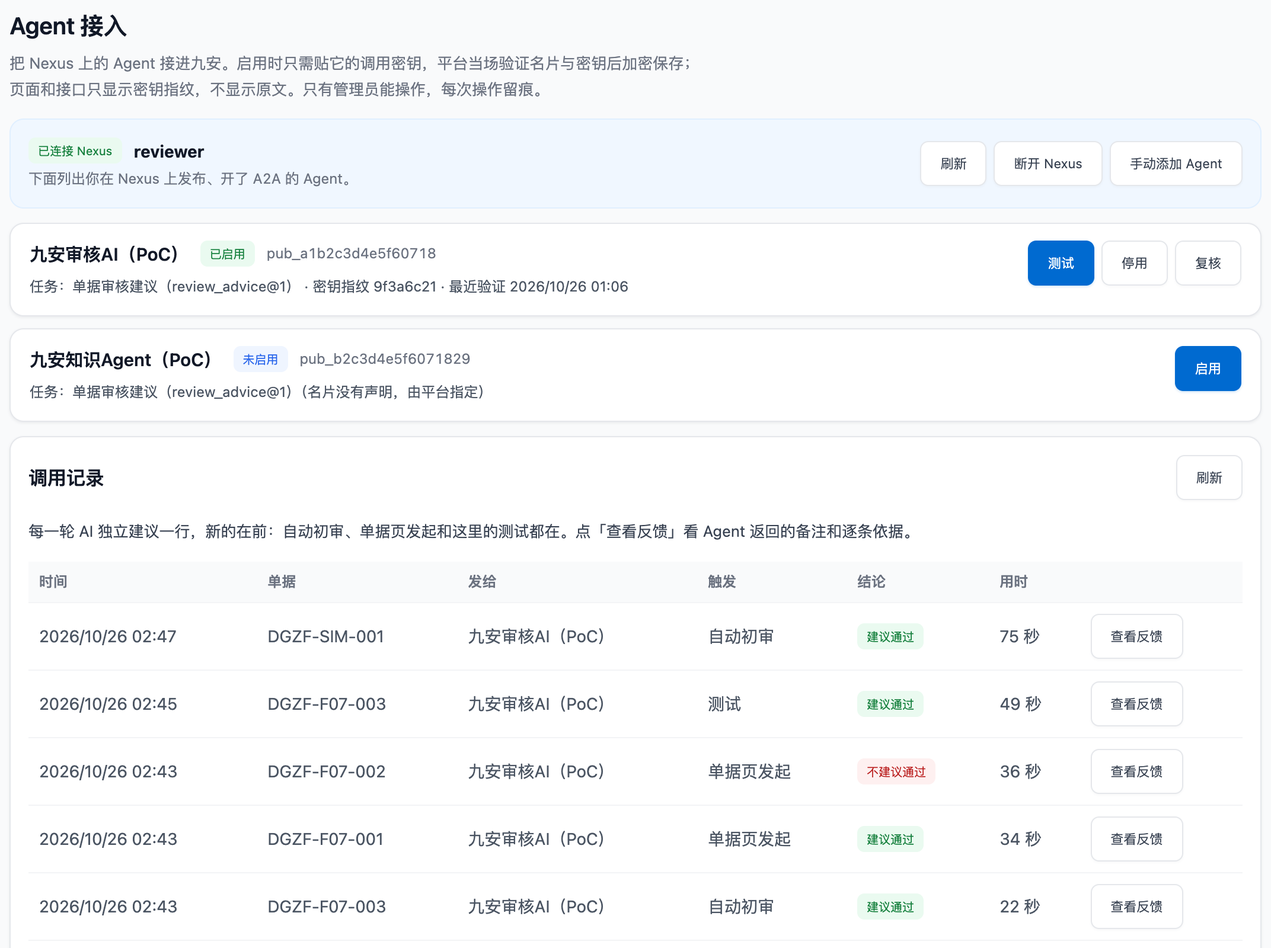
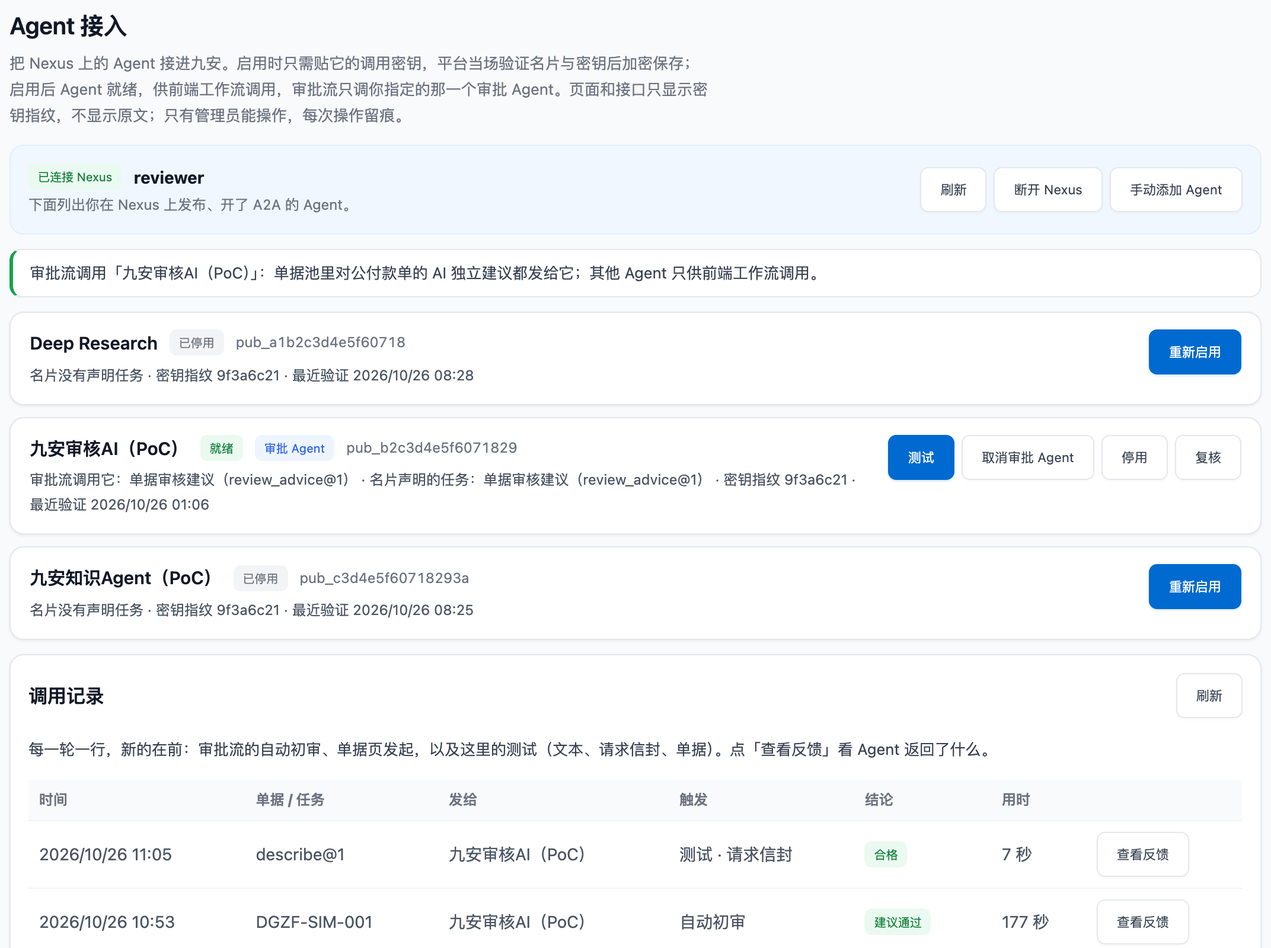
fix(bench07): tasks the old patch assigned are not the card's; docs for ready/approval Agents
Records enabled under the earlier patch 0003 carry tasks the platform assigned
(declaredBy: platform); the page showed them as 「名片声明的任务」 and the
migration could have picked such an Agent. Both now ignore them.
Developer guide P3/P3b, plan doc and poc/README describe ready Agents, the one
approval Agent and the text / envelope / document tests; new screenshot with
fictional publish ids and fingerprints. E2E titles match what they check.

diff --git a/docs/delivery/developer-guide.md b/docs/delivery/developer-guide.md
@@ -26,7 +26,7 @@ audience: 九安的前端开发、后端开发（调用方）、Agent 开发
 - [ ] 需求写成了一份任务契约（`contract/tasks/<任务名>/v1/`），例子能过检查；
 - [ ] 线上 Nexus AI 上有一个 Agent 实现了这个任务，发布打开了 A2A，名片里写明了契约和任务；
 - [ ] 九安后端能读到这个发布的名片、验证调用密钥、发出请求、拿到合格的结果；
-- [ ] 管理员在九安平台页面的「Agent 接入」里启用了这个发布；
+- [ ] 管理员在九安平台页面的「Agent 接入」里启用了这个发布；接审批流的，还把它「设为审批 Agent」；
 - [ ] 九安前端能看到「进行中 → 结果」（人发起的点一下，系统发起的打开页面就有），失败时看到原因；
 - [ ] 浏览器里、仓库里、日志里都找不到任何一把密钥。
 
@@ -152,7 +152,7 @@ cp -R <交接仓库>/contract <九安仓库>/contract
 - 先发现再动手：用 caps、module、describe 查清楚要调的接口，不要凭记忆写接口
 - 每个写操作（建 Agent、改提示词、建发布、改发布）先把将要执行的请求给我看，我回复同意后才加 --yes；删除、对外分享另外单独问我
 - 密钥只经标准输入；输出里出现 [已隐藏] 不要还原
-- 发布要固定 Agent 版本（不跟随最新），名片描述里单独两行写「契约：jiuan.agent/v1」和「任务：<任务名>@1」（推荐；漏了也能在九安启用，任务由平台按九安接的任务指定，见第 7.2 节）
+- 发布要固定 Agent 版本（不跟随最新），名片描述里单独两行写「契约：jiuan.agent/v1」和「任务：<任务名>@1」（推荐：九安的页面据此显示它支持的任务；漏了也能在九安启用。要不要接审批流，由管理员在九安里把它「设为审批 Agent」，不看这两行，见第 7.2 节）
 
 Agent 的提示词要写清：
 - 读消息里 DataPart 的请求信封；按 task 和 taskVersion 做事；不认识的任务、不归它做的请求，回 status: declined 并写 declined.reason；忽略不认识的字段
@@ -180,7 +180,7 @@ Agent 的提示词要写清：
 这一步只有本人能在网页上做，编码工具和 API 密钥都签不了。
 
 1. 在 Nexus 网页进「互联中心 › 对外发布」，打开第 5 章建好的发布，签发一把调用密钥（`nxa_` 开头）。
-2. 由管理员在九安平台页面的「**Agent 接入**」里找到这个 Agent（连过一次 Nexus 后，页面列出 Nexus 上开了 A2A 的发布），点「启用」，只粘贴这把调用密钥；后端当场验证、加密保存。列表里没有的发布可以「手动添加」：贴它的 A2A 地址和调用密钥。第一次要先用第 7.2 节的 P3、P3b 把这个页面做出来；参考环境里是「Nexus Agent」页的「我的 Agent › 启用」。
+2. 由管理员在九安平台页面的「**Agent 接入**」里找到这个 Agent（连过一次 Nexus 后，页面列出 Nexus 上开了 A2A 的发布），点「启用」，只粘贴这把调用密钥；后端当场验证、加密保存，Agent 就绪，供前端工作流调用。要接审批流的（例如审核 Agent），再在它的卡上点「设为审批 Agent」：审批流只调这一个。列表里没有的发布可以「手动添加」：贴它的 A2A 地址和调用密钥。第一次要先用第 7.2 节的 P3、P3b 把这个页面做出来；参考环境里是「Nexus Agent」页的「我的 Agent › 启用」。
 
 调用密钥不要发到聊天工具里，不要写进 `.env` 或任何配置文件，也不要交给 Claude Code 写进代码。
 
@@ -212,7 +212,7 @@ read -rs KEY && curl -s -o /dev/null -w '%{http_code}\n' -X POST "$NEXUS/a2a/$PU
 ```text
 目标：在九安后端加两样通用的东西，以后所有 Agent 任务都用它们：
 1）A2A 适配层和模型接入口：业务代码经九安的统一调用中间件调 agentTask(...)，适配层按 jiuan.agent/v1 把请求信封发给 Nexus 上的发布，收回结果信封并检查；
-2）Agent 接入：管理员连一次 Nexus，后端列出 Nexus 上开了 A2A 的发布；启用时从列表里选，只贴这个发布的调用密钥（发布编号来自列表，不让人手填），后端验证后加密保存；可以测试、换密钥、重新验证、停用，看调用记录。
+2）Agent 接入：管理员连一次 Nexus，后端列出 Nexus 上开了 A2A 的发布；启用时从列表里选，只贴这个发布的调用密钥（发布编号来自列表，不让人手填），后端验证后加密保存；启用后 Agent 就绪，供前端工作流调用；审批流只调管理员指定的那一个「审批 Agent」；可以测试（文本、请求信封、单据）、换密钥、重新验证、停用，看调用记录。
 
 先读：
 - <交接仓库>/docs/delivery/agent-framework.md 第 6 节的 I2（适配层）、I3（模型接入口）、I6（路由配置）、I7（Agent 接入，细节在 <交接仓库>/docs/delivery/handover.md 第 2.6 节）
@@ -250,9 +250,10 @@ read -rs KEY && curl -s -o /dev/null -w '%{http_code}\n' -X POST "$NEXUS/a2a/$PU
 - 接口只给管理员（其他人 403），挂在 /api/analysis/v1/platform/agent-access：GET 列出，POST 启用（{ publishId, callKey, reason }），POST …/<publishId>/key（{ callKey, reason }，换密钥）、…/verify（{ reason }，用已保存的密钥重读名片、重验密钥）、…/disable（{ reason }）。reason 必填、1–200 字。照九安平台写操作现有的约定：analysis-server.mjs 的写操作白名单、留痕写 platform_change_log（记动作、原因、密钥指纹和错误码）
 - 每个发布记下最近一次检查的结果和时间（可用 / 密钥失效 / 名片读不到），列表返回 status、verifiedAt、invalidAt；错误码集中定义在一处并导出，页面要逐个给说明
 - 启用和换密钥时：先读名片（按 card-requirements.json 检查，记下名片声明的任务），再用 verifyKey 验证（不花钱），都过了才保存；名片读不到、名片不合要求、密钥无效，分别给出错误码
-- 名片只差说明里的「契约：jiuan.agent/v1」「任务：…」两行（其余都合 card-requirements.json）时照样启用：任务由平台按这个实例接的任务指定，记录上标 declaredBy: platform（名片声明的标 card），页面上写明「名片没有声明，由平台指定」。Nexus 新建的发布常常没有这两行，拒绝启用只会让管理员卡住。名片还有别的问题，或只声明了九安不接的任务，照旧拒绝
+- 启用 = 就绪，不等于进审批流：名片说明里有没有「契约：jiuan.agent/v1」「任务：…」两行、声明了什么任务，都不挡启用（Nexus 新建的发布常常没有这两行，拒绝启用只会让管理员卡住）；名片的其他要求（流式、接受 JSON、bearer）照旧要满足。启用后 Agent 就绪，供前端工作流调用
+- 审批流只调审批 Agent：管理员在一个就绪的 Agent 上「设为审批 Agent」（POST …/agent-access/<publishId>/approve，{ reason }；取消是 …/unapprove），同一时间只有一个，指定新的就替换旧的，每次都留痕。给任务服务的 publication(publishId).card.tasks 只对审批 Agent（而且它就绪时）带上审批流的任务（first_review@1、review_advice@1），别的 Agent 名片声明了也不带；card.declaredTasks 是名片自己说的。审批 Agent 停用或密钥失效时审批流暂停，恢复后自动接上。这两个写操作也要进写操作白名单
 - 列出 Nexus 上的发布：管理员贴一次自己的 Nexus API 密钥（nxc_ 开头）连上 Nexus。照 cli.mjs 的做法交给 nexus-ai-operator 命令行登录：API 密钥只经环境变量交给 login，第一次登录后 Nexus 会换新，命令行自己保存、续期，凭证目录放九安自己的数据目录。接口：GET …/agent-access/nexus（连接状态）、POST …/agent-access/nexus（{ apiKey }，连接）、POST …/agent-access/nexus/disconnect（只删本机凭证）、GET …/agent-access/publications（开了 A2A 的发布：名称、任务、能不能启用，不能的写明原因）。连接、断开要进 analysis-server.mjs 的写操作白名单，否则回 404
-- 测试：POST …/agent-access/<publishId>/test（{ documentId }，先回 202），GET …/agent-access/tests/<testId> 查结论、备注、依据和用时。照自动发起的做法组装请求（先读原件），用单独的会话分区，结果只记进调用记录，不改单据的结论；每个管理员每分钟最多 5 次（每次都真实调用 Nexus）。这个写操作也要进白名单
+- 测试（每个就绪的 Agent 都能测，不管是不是审批 Agent）：POST …/agent-access/<publishId>/test，三种测法：{ mode: 'text', text }（一段话原样发过去，一个文字 Part，看回复）；{ mode: 'envelope', request }（jiuan.agent/v1 请求信封：先按契约查请求，查不过不发，回 400 并列出问题；发出去和适配层一样是一行说明 + 信封 DataPart；回答用契约的 extractResultObject、checkResultEnvelope 判合格 / 不合格，原始回答留下；GET …/agent-access/test-templates 给契约里每个任务一份示例请求）；{ mode: 'document', documentId }（照自动发起的做法组装审批流的请求，先读原件）。都先回 202，GET …/agent-access/tests/<testId> 查结果；用单独的会话，结果只记进调用记录，不改单据的结论；每个管理员每分钟最多 5 次（每次都真实调用 Nexus）。文本和请求信封要看原始回答，适配层只给检查过的结果，所以这两种用这个发布已启用的调用密钥直接发，调用记录里要记下。这个写操作也要进白名单
 - 调用记录：GET …/agent-access/calls，每一轮 Agent 任务一行，新的在前（含测试）：单据号、发给哪个发布、触发方式、状态、结论、用时、错误码，以及 Agent 返回的备注和逐条依据。读单据池时注意 listDocuments 每页最多 50 张
 - 服务启动时，对已启用的发布各重读一次名片、更新任务列表；读不到只记错误码，不影响启动
 - 调用密钥只在启用、换密钥时从请求体读一次；只查是 16–512 个可见字符，不查前缀。用 AES-256-GCM 加密存进九安自己的存储；加密密钥用 HKDF 从九安的分析数据密钥（analysisSecrets 的 dataKey）派生，info 写 jiuan-agent-enablement/v1，不新增密钥文件。返回只带指纹；日志只记错误码
@@ -269,7 +270,7 @@ read -rs KEY && curl -s -o /dev/null -w '%{http_code}\n' -X POST "$NEXUS/a2a/$PU
 步骤：
 1. 先写适配层的测试：用假 A2A 网关覆盖正常流、分块和全文、断线后 tasks/get（查到、查不到、查的时候网络出错）、修正一次、declined、401（标失效）、404（不标）、429、conversation_busy、signal 中止（发了 tasks/cancel）、名片 url 不同源，以及 error-map.json 里的每一种；
 2. 写适配层和模型接入口，让测试通过；再加一个测试：经调用中间件调 agentTask，调用日志里记下了这次调用；
-3. 写 Agent 接入的接口和测试（含「返回里没有密钥」「非管理员看不到」「名片只差那两行时能启用、任务标平台指定」「声明了别的任务时拒绝」的断言）；
+3. 写 Agent 接入的接口和测试（含「返回里没有密钥」「非管理员看不到」「名片只差那两行、或声明了别的任务时都能启用，但不进审批流」「审批 Agent 只有一个、只有它的 card.tasks 带审批流的任务」「请求信封查不过不发」的断言）；
 4. 跑全部测试，把结果贴给我。
 
 验收：全部测试通过；经调用中间件，用 contract/tasks/first_review/v1/examples/request.json 对假网关跑通一次完整调用（含 checks.mjs）；grep 仓库和测试输出，找不到 nxa_ / nxc_ 开头的真密钥。
@@ -279,12 +280,12 @@ read -rs KEY && curl -s -o /dev/null -w '%{http_code}\n' -X POST "$NEXUS/a2a/$PU
 
 P3 只做了「Agent 接入」的后端接口。管理员要在页面上连 Nexus、启用、测试，再用 P3b 在九安的平台页面上加一块。测试台上做出来的样子（发布编号和指纹换成了虚构的）：
 
-![九安「后台配置」里的「Agent 接入」页签：顶上一条显示「已连接 Nexus」和刷新、断开 Nexus、手动添加 Agent；下面每个 Agent 一张卡：名称、状态（已启用 / 未启用）、发布编号、任务（名片没声明的标「由平台指定」）、密钥指纹和最近验证时间，右边只放合用的按钮（已启用的是测试、停用、复核，没启用的是启用）；再下面是调用记录，每一轮一行：时间、单据、发给哪个 Agent、触发方式、结论、用时、查看反馈](../assets/screens/dev-guide-agent-access.png)
+![九安「后台配置」里的「Agent 接入」页签：顶上一条显示「已连接 Nexus」和刷新、断开 Nexus、手动添加 Agent；再下一行说明审批流现在调哪个 Agent；下面每个 Agent 一张卡：名称、状态（就绪 / 未启用）、审批流调用的那个另有「审批 Agent」标记、发布编号、它在审批流里接的任务或「供前端工作流调用（不进审批流）」、名片声明的任务、密钥指纹和最近验证时间，右边只放合用的按钮（就绪的是测试、设为 / 取消审批 Agent、停用、复核，没启用的是启用）；再下面是调用记录，每一轮一行：时间、单据、发给哪个 Agent、触发方式、结论、用时、查看反馈](../assets/screens/dev-guide-agent-access.png)
 
 **提示词 P3b：「Agent 接入」页面**
 
 ```text
-目标：在九安的平台页面上加「Agent 接入」，让管理员不用命令行就能连 Nexus、看到已发布的 Agent、启用（只贴调用密钥）、测试、换密钥、重新验证、停用，看调用记录。
+目标：在九安的平台页面上加「Agent 接入」，让管理员不用命令行就能连 Nexus、看到已发布的 Agent、启用（只贴调用密钥）、指定审批 Agent、测试（文本、请求信封、单据）、换密钥、重新验证、停用，看调用记录。
 
 先读：
 - 上一步（P3）做好的 Agent 接入接口：/api/analysis/v1/platform/agent-access 的请求体、返回、错误码（代码在 src/agent-enablement.mjs）
@@ -296,17 +297,18 @@ P3 只做了「Agent 接入」的后端接口。管理员要在页面上连 Nexu
 - 入口放在「后台配置」的页签里，排在「连接器」后面；后台配置整组只给管理员，其他角色看不到这个页签（接口本来也回 403）。不要放进所有人都能看到的「平台运行」
 - 组件只依赖从外面传进来的请求函数（createAnalysisClient）和画页面的小函数，不直接用 document、fetch，这样才能用假后端测；以后的任务页面（P5）也照这个写法
 - 顶上一条：没连 Nexus 时是 Nexus API 密钥的输入框和「连接 Nexus」；连上后显示「已连接 Nexus」和账号，带「刷新」「断开 Nexus」。不连 Nexus 也能「手动添加」：贴 A2A 地址（页面从地址里认出发布编号）和调用密钥
-- 一张表：Nexus 上的发布和已经启用的发布按发布编号合在一起，同一个发布只出现一次，每个一张卡：名称、状态（已启用 / 未启用 / 密钥失效 / 已停用 / 不能启用和原因）、发布编号、任务（平台指定的标出来）、密钥指纹、最后验证时间（verifiedAt；密钥失效的写失效原因）。卡上只放当前状态合用的按钮：已启用的「测试」「停用」「复核」，没启用或已停用的「启用」，密钥失效的「换钥匙」「停用」；不能启用的不放按钮
+- 一张表：Nexus 上的发布和已经启用的发布按发布编号合在一起，同一个发布只出现一次，每个一张卡：名称、状态（就绪 / 未启用 / 密钥失效 / 已停用 / 不能启用和原因）、审批 Agent 的标记、发布编号、它在审批流里接的任务（只有审批 Agent 有）或「供前端工作流调用」、名片声明的任务、密钥指纹、最后验证时间（verifiedAt；密钥失效的写失效原因）。卡上只放当前状态合用的按钮：就绪的「测试」「设为审批 Agent」（是审批 Agent 的换成「取消审批 Agent」）「停用」「复核」，没启用或已停用的「启用」，密钥失效的「换钥匙」「停用」；不能启用的不放按钮
+- 卡片上方一行说清审批流现在调谁：调「某某」；没有审批 Agent 时说审批流停着、去哪里指定；审批 Agent 停用或密钥失效时说审批流暂停。设为审批 Agent 要先确认（替换旧的时写明换掉谁），取消也要先确认（说清审批流会停下）
 - 启用、换钥匙：在卡上展开一个只有调用密钥（密码输入框，不回显）的小表单；发布编号来自卡片，原因由页面按操作自动填（例如「在「Agent 接入」页启用」），不让人手填。后端当场验证。P3 的每个错误码都要有一句能照着做的话，测试从 P3 的代码里读出全部错误码逐个核对。例如：名片读不到 → 在 Nexus 上确认发布没暂停、A2A 打开了；名片不合要求 → 说清是哪一项（例如不支持流式）；密钥无效 → 在这个发布里重新签一把
 - 停用要先确认（说清停用后九安不再交单、已存的密钥一并清除）
-- 测试：已启用的卡上点「测试」，选一张能测的单据，等结论（轮询 P3 的查询接口）；结论、备注（模型自评，未核实）、逐条依据、用时，和调用记录的「查看反馈」用同一个展示
+- 测试：就绪的卡上点「测试」，展开三个页签：文本（写一段话发出去，看回复）、请求信封（选任务，页面按契约填好示例请求，可以改；JSON 写错不发；结果显示合格 / 不合格、不合契约的地方、检查过的结果信封和原始回答）、单据（选一张能测的单据，等结论）。审批 Agent 默认打开「单据」，其他的默认「文本」。结果和调用记录的「查看反馈」用同一个展示
 - 页面下方是调用记录（「刷新」；每一轮一行，「查看反馈」展开），操作记录折叠起来
 - 调用密钥只出现在输入框里：不放进组件的状态、对话框的状态、analysis.js 的 state、浏览器存储、日志、地址栏；页面上只显示指纹。只是校验没过（例如手动添加时认不出 A2A 地址）时不清空密钥框；真正提交时读出来马上清空
 - 页面上不显示 Nexus 地址（手动添加时管理员自己贴的 A2A 地址只用来认出发布编号）
 - 沿用九安平台页面现有的组件和样式，不引入新的前端库
 
 步骤：先写组件测试（照 public/analysis.js 的写法：组件只依赖从外面传进来的请求函数和画页面的函数，测试用假后端，node:test 跑），再写页面。
-验收：测试通过；测试里断言「提交后输入框已清空、页面状态里没有密钥」「每种状态的卡上只有合用的按钮」「同一个发布只出现一次」「名片只差那两行的能启用」；画页面的假函数要和真 DOM 的行为一致（例如 replaceChildren(null) 会显示成文字「null」）。在本机起服务（没有 MySQL 就用 createAnalysisApp 加内存存储、假 A2A 网关和一个只认一个令牌的假登录），截四张图：列表、启用（只贴密钥）、测试结果、密钥失效的一张卡。截图要登录、点按钮：用本机 Chrome 的 --headless=new --remote-debugging-port 加 Node 自带的 WebSocket 走 DevTools 协议，或者用你们已有的 Playwright；只访问 127.0.0.1。
+验收：测试通过；测试里断言「提交后输入框已清空、页面状态里没有密钥」「每种状态的卡上只有合用的按钮」「同一个发布只出现一次」「名片只差那两行的能启用」「设为审批 Agent 先确认、替换时写明换掉谁」「请求信封 JSON 写错不发」；画页面的假函数要和真 DOM 的行为一致（例如 replaceChildren(null) 会显示成文字「null」）。在本机起服务（没有 MySQL 就用 createAnalysisApp 加内存存储、假 A2A 网关和一个只认一个令牌的假登录），截四张图：列表、启用（只贴密钥）、测试结果、密钥失效的一张卡。截图要登录、点按钮：用本机 Chrome 的 --headless=new --remote-debugging-port 加 Node 自带的 WebSocket 走 DevTools 协议，或者用你们已有的 Playwright；只访问 127.0.0.1。
 不许做：不在浏览器里直连 Nexus；不改 P3 的接口。
 ```
 
@@ -341,7 +343,7 @@ P3 只做了「Agent 接入」的后端接口。管理员要在页面上连 Nexu
 - 组装：从九安的数据组装 input（只放契约里有的字段），按 input.schema.json 校验；不合格就不调用，存成失败 AI_REQUEST_INVALID
 
 约束（选发布、开关、重试）：
-- 发给哪个发布：按 I6 的路由配置（config.agents.tasks.<任务名>.routes），从上往下取第一条 when 匹配的；它的发布没在「Agent 接入」里启用、启用记录里没有 <任务名>@1（名片声明的或平台指定的）或密钥失效，就直接失败 AI_UNAVAILABLE：不调用、不存，流水线这一轮停下，下一轮再试
+- 发给哪个发布：按 I6 的路由配置（config.agents.tasks.<任务名>.routes），从上往下取第一条 when 匹配的；它的发布没在「Agent 接入」里启用、publication().card.tasks 里没有 <任务名>@1（只有管理员指定的审批 Agent 带审批流的任务）或密钥失效，就直接失败 AI_UNAVAILABLE：不调用、不存，流水线这一轮停下，下一轮再试
 - 任务开关 config.agents.tasks.<任务名>.enabled 默认关闭：关闭时流水线这一站什么都不做，POST 和查结果都回 503 AGENT_TASK_DISABLED
 - 失败时看错误对象上的 autoRetry，为 true 的重试一次：等 max(agents.autoRetryDelayMs, Retry-After)，最多 5 分钟，attempt 加一；declined 不重试。平台这边让调用没发生的失败（暂停、额度用完、连接器关闭、服务中断）下一轮流水线照常重发；因为密钥、发布出问题的失败（AI_AUTH_INVALID、AI_UNAVAILABLE），管理员在「Agent 接入」里换好密钥或重新验证通过后，下一轮重发；其他 Agent 那边的失败，这个版本的对象不再自动重发
 
@@ -416,7 +418,7 @@ P3 只做了「Agent 接入」的后端接口。管理员要在页面上连 Nexu
 
 1. **P1**：写任务契约；
 2. **P2**：建 Agent、调试、发布；
-3. **人**：签发调用密钥，管理员在「Agent 接入」里启用；
+3. **人**：签发调用密钥，管理员在「Agent 接入」里启用（接审批流的再「设为审批 Agent」）；
 4. **P4 + P5**：加任务模块和页面；在路由配置里加一行，打开任务开关。
 
 通用层不改。一个 Agent 也可以支持多个任务：名片描述里写成「任务：a@1、b@1」，提示词里按 `task` 分别处理。

diff --git a/poc/README.md b/poc/README.md
@@ -31,9 +31,11 @@
 - **组成**：九安 v0.7.10 开发包的副本（`bench/build-jiuan07.sh`，按清单复制，再打 `../patches/jiuan-v0.7.10/` 下的补丁，`source/` 不动）+ 外壳 `app07/`（口令登录、进程内的假汇联易、出网只放行 Nexus）。单据存在本机 MySQL 的 `jiuan07` 库。
 - **后台配置 › Agent 接入**（补丁 0001–0003，后端在 `app07/`）：
   - 连一次 Nexus：贴你自己的 Nexus API 密钥。页面列出你在 Nexus 上开了 A2A 的发布，和已启用的合在一张表里，每个 Agent 一张卡；
-  - 启用：点卡上的「启用」，只贴这个发布的调用密钥。名片说明里没有「契约 / 任务」两行的照样能启用，任务由平台指定（`review_advice@1`），卡上会标出来。列表里没有的发布用「手动添加」（A2A 地址 + 调用密钥）；
-  - 已启用的卡上有「测试」（选一张对公付款单，真实调用一次，结果只记进调用记录，不改单据的结论；每分钟最多 5 次）、「停用」（先确认）、「复核」；密钥失效的有「换钥匙」；
-  - 下方是调用记录：每一轮 AI 独立建议一行（自动初审、单据页发起、测试），「查看反馈」看备注和逐条依据。操作记录折叠在最下面。
+  - 启用：点卡上的「启用」，只贴这个发布的调用密钥。启用后 Agent「就绪」，供前端工作流调用；名片说明里有没有「契约 / 任务」两行都不挡启用。列表里没有的发布用「手动添加」（A2A 地址 + 调用密钥）；
+  - 审批流只调「审批 Agent」：在一个就绪的卡上点「设为审批 Agent」（同一时间只有一个，替换前先确认），卡片上方一行写着审批流现在调谁。现在是「九安审核AI（PoC）」（补丁 0003 上线时按它名片声明的 review_advice@1 迁移过来的）；
+  - 就绪的卡上有「测试」，三种测法：文本（一段话原样发过去看回复）、请求信封（按契约预填 jiuan.agent/v1 示例请求，回答按契约判合格 / 不合格，原始回答也能看）、单据（选一张对公付款单，照自动初审组装请求）。测试只记进调用记录，不改单据的结论；每分钟最多 5 次；
+  - 另有「停用」（先确认）、「复核」，密钥失效的有「换钥匙」；
+  - 下方是调用记录：审批流的每一轮（自动初审、单据页发起）和每次测试一行，「查看反馈」看 Agent 返回了什么。操作记录折叠在最下面。
 - **模拟来单**：https://jiuan-v0710.tinyboat.blog/poc/intake（管理员）。九安下一轮同步（约 1 分钟）把新单拉进单据池，读完原件后自动发起 AI 独立建议。
 - **端到端测试**：`bash app/test/e2e/run07.sh`。先重建 `jiuan07` 库（保留 Agent 接入的启用记录和 Nexus 连接），只从 `infra/secrets.env` 读两个账号的口令，不读任何调用密钥。
 

diff --git a/docs/plans/2026-10-25-v0710-kb-review-advice.md b/docs/plans/2026-10-25-v0710-kb-review-advice.md
@@ -144,3 +144,12 @@
 - 结果：九安 v0.7.10 端到端测试 8/8 通过（`run07.sh`）：四张对公付款单自动出 AI 独立建议、结论符合预期、规则编号都在库里；页面测试一张、模拟来单一张，都自动完成。单元测试：外壳 32/32，PoC 289 通过、11 个跳过（要 MySQL 的）。PoC 端到端测试 15/15 通过（共用同一个审核 Agent，回归没问题）。
 - 没做的：没有在测试台上实际停用再启用「九安审核AI（PoC）」。已启用的那把密钥是项目负责人在页面上贴的，聊天里给的几把指纹都对不上，停用后就启用不回来，自动初审会停。页面上的停用、换钥匙、复核由组件测试覆盖，现场只点到确认这一步。
 - 分支 `feat/v0710-kb-review-advice` 只在本地提交，等项目负责人确认后再推送。
+
+## 调整（2026-10-26，项目负责人的要求）
+
+- **之前为什么对不上**：九安启用发布时按 `card-requirements.json` 检查名片，前两条要求描述里有「契约：jiuan.agent/v1」「任务：x@1」两行（Nexus 的名片只能改名称和描述，九安只好把任务写在描述里）。Nexus 新发布的 Agent 描述里没有这两行，一律被拒；「九安审核AI」能启用，是因为 10-25 用 `audit-agent/apply.py` 给它的发布描述补了这两行。
+- **昨晚补丁 0003 的问题**：只差这两行的名片一律被指定成 `review_advice@1`，而路由挑最新启用的那个。启用知识 Agent 就会让它接单据池的对公付款单（没有启用，没发生过）。
+- **改成**（补丁 0003 重写为「就绪 + 一个审批 Agent」）：
+  - 启用只让 Agent 就绪，供前端工作流调用；
+  - 审批流只调管理员在卡片上指定的那一个审批 Agent（同一时间只有一个）。九安任务服务看的 `card.tasks` 只对它带审批流的任务。上线时按名片声明把「九安审核AI」迁移成审批 Agent。
+- **测试**加了文本和请求信封两种（项目负责人选：信封按九安契约预填、按契约判合格 / 不合格）。
